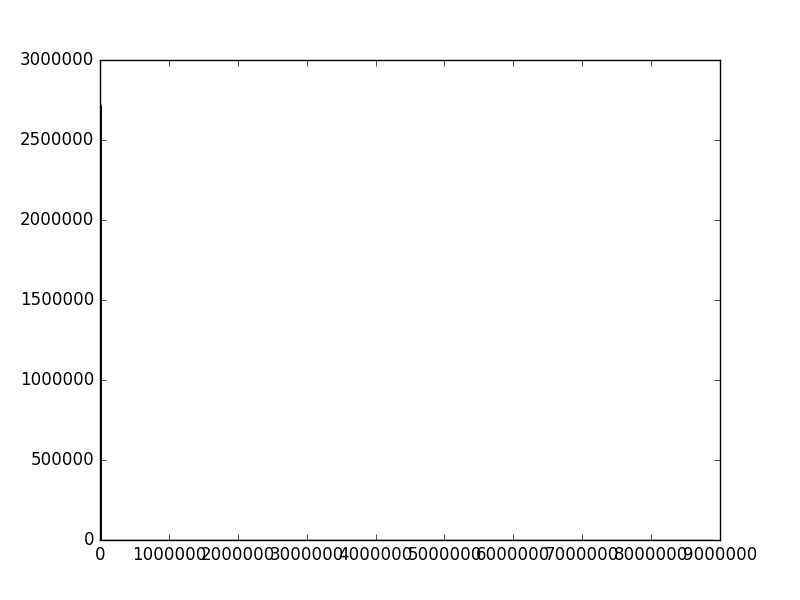
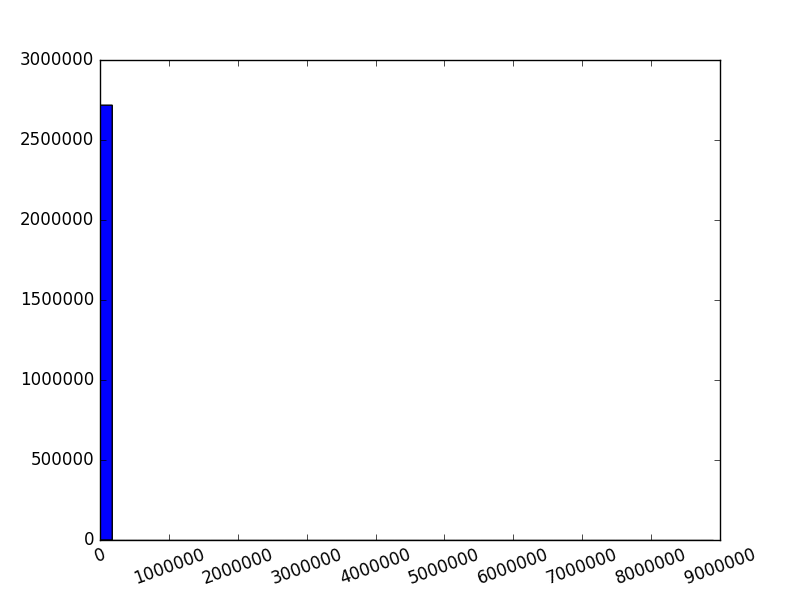
parse corpus re sort word count

Changed region(s): [[0.1562, 0.9, 0.9688, 0.99], [0.125, 0.15, 0.1562, 0.9]]

diff --git a/parse_corpus_re.py b/parse_corpus_re.py
@@ -6,6 +6,7 @@ cwd = os.getcwd()
 wordcount_list = []
 frequency_list = []
 frequency_list_t = []
+frequency_list_t2 = []
 with open(os.path.join(cwd, 'corpus_re.txt'), 'r') as f:
     for line in f:
         addition = line.split()
@@ -14,6 +15,8 @@ with open(os.path.join(cwd, 'corpus_re.txt'), 'r') as f:
         frequency_list.append(addition[1])
         if addition[1]>100:
             frequency_list_t.append(addition[1])
+        if addition[1]>100000:
+            frequency_list_t2.append(addition[1])
 f.close()
 wordcount_list.sort(reverse=True, key=lambda x: x[1])
 output_wc = open(os.path.join(cwd, 'sorted_wc.txt'), 'w')
@@ -28,9 +31,18 @@ output_wc.close()
 output_wc2.close()
 output_wc2t.close()
 f = plt.figure(1)
-plt.hist(frequency_list,bins=500)
+plt.hist(frequency_list,bins=50)
+plt.xticks(rotation=20)
 f.savefig(os.path.join(cwd, 'frequency_hist'))
+
 g = plt.figure(2)
-plt.hist(frequency_list_t,bins=500)
-g.savefig(os.path.join(cwd, 'truncated_frequency_hist'))
+plt.hist(frequency_list_t,bins=range(100,9179998,179998))
+plt.xticks(range(100,9179998,1799980),rotation=20)
+
+g.savefig(os.path.join(cwd, 'truncated100_frequency_hist'))
+
+h = plt.figure(3)
+plt.hist(frequency_list_t2,bins=range(100000, 9089000,89000))
+plt.xticks(range(100000, 9089000,890000),rotation=20)
+h.savefig(os.path.join(cwd, 'truncated100000_frequency_hist'))
 
